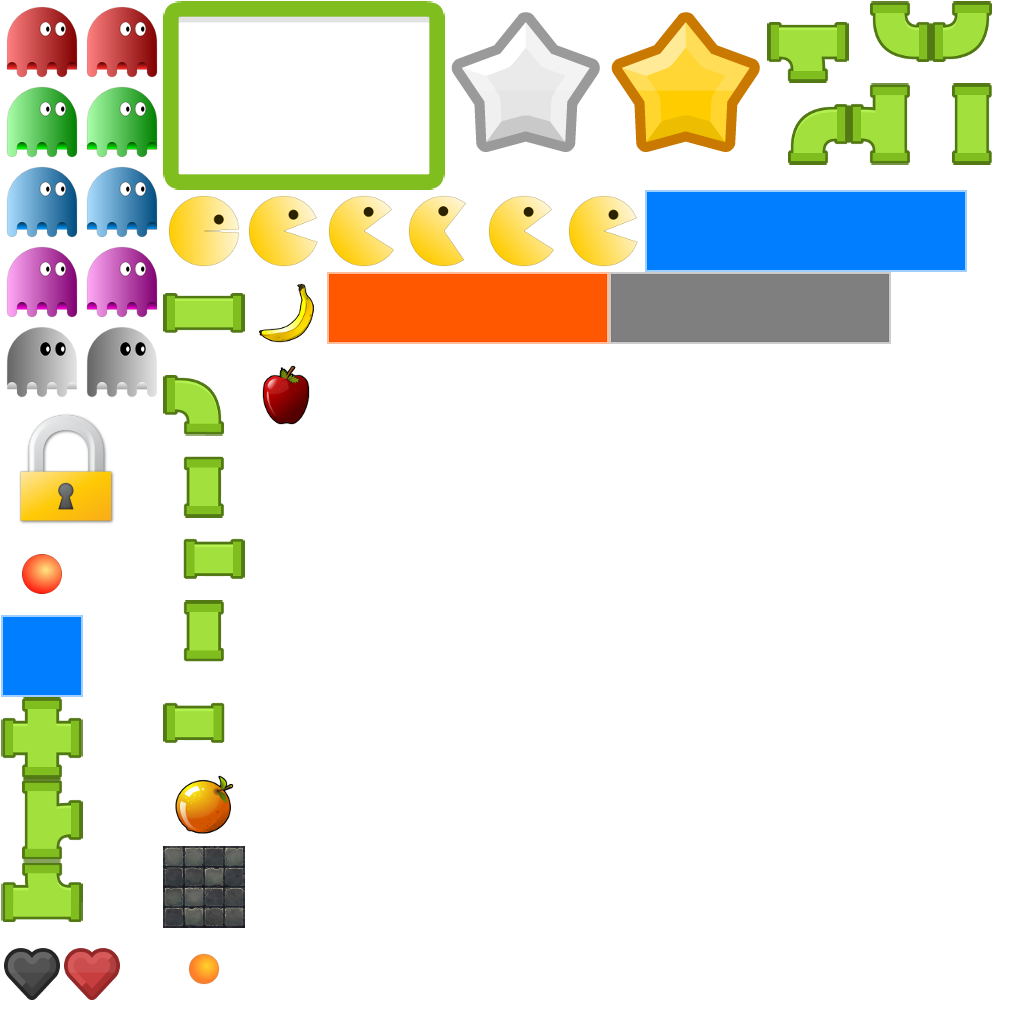
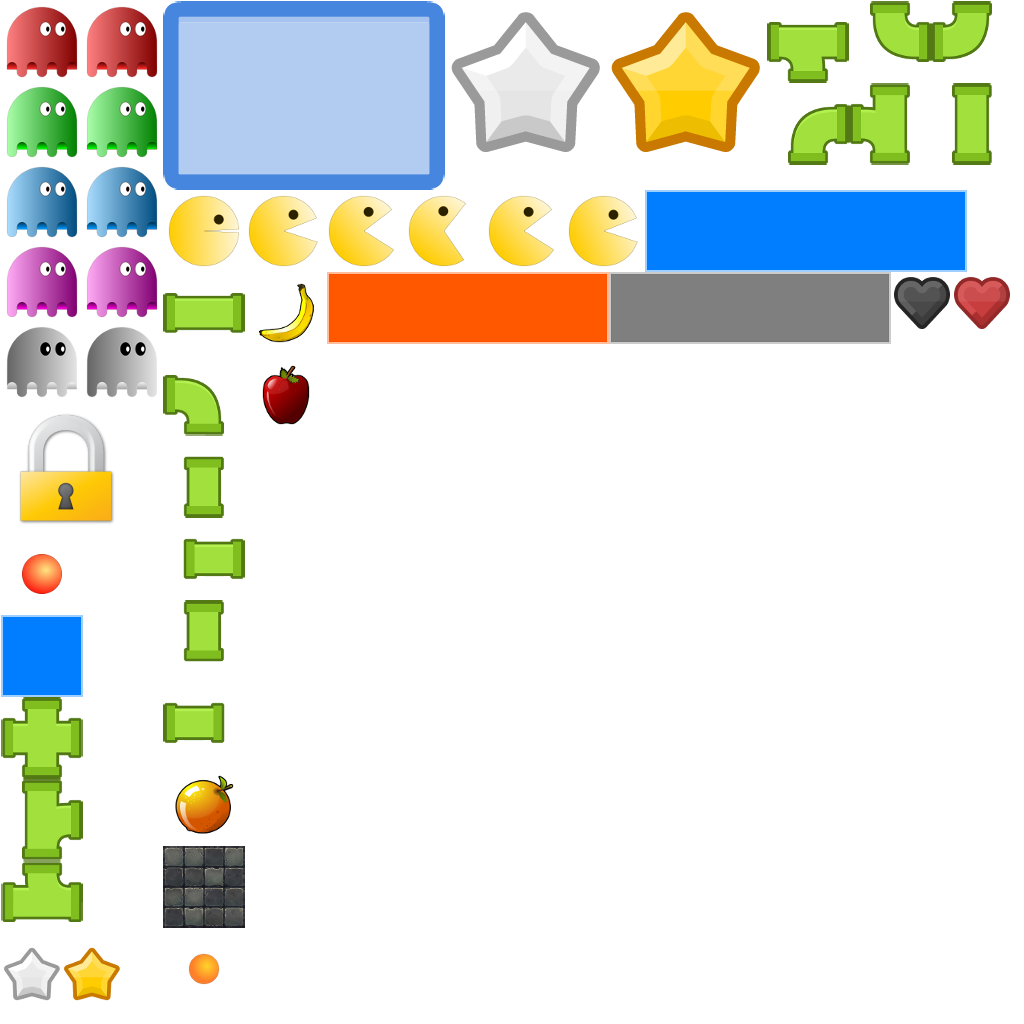
Завершение реализации меню выбора уровня

Changed region(s): [[0.1562, 0.0, 0.4375, 0.1875], [0.0, 0.9062, 0.125, 1.0], [0.875, 0.25, 1.0, 0.3438]]

diff --git a/core/src/com/mygdx/game/screens/MenuScreen.java b/core/src/com/mygdx/game/screens/MenuScreen.java
@@ -2,22 +2,15 @@ package com.mygdx.game.screens;
 
 import com.badlogic.gdx.Gdx;
 import com.badlogic.gdx.Screen;
-import com.badlogic.gdx.audio.Music;
 import com.badlogic.gdx.graphics.Camera;
 import com.badlogic.gdx.graphics.GL20;
-import com.badlogic.gdx.graphics.OrthographicCamera;
 import com.badlogic.gdx.graphics.g2d.BitmapFont;
 import com.badlogic.gdx.graphics.g2d.SpriteBatch;
 import com.badlogic.gdx.graphics.g2d.TextureRegion;
 import com.badlogic.gdx.math.Vector2;
-import com.badlogic.gdx.scenes.scene2d.Actor;
-import com.badlogic.gdx.scenes.scene2d.Stage;
-import com.badlogic.gdx.scenes.scene2d.ui.Button;
-import com.badlogic.gdx.scenes.scene2d.ui.Skin;
-import com.badlogic.gdx.scenes.scene2d.ui.TextButton;
-import com.badlogic.gdx.scenes.scene2d.utils.ChangeListener;
 import com.mygdx.game.Assets;
 import com.mygdx.game.GameConstants;
+import com.mygdx.game.HighScoreSystem;
 import com.mygdx.game.gui.MenuGUI;
 
 import java.util.HashMap;
@@ -36,6 +29,7 @@ public class MenuScreen implements Screen, GameConstants {
     private TextureRegion[] stars;
     private TextureRegion lock;
     private TextureRegion pane;
+    private int[] levelStars;
 
     private Vector2 firstCameraPosition;
     private Vector2 currentCameraPosition;
@@ -48,15 +42,16 @@ public class MenuScreen implements Screen, GameConstants {
         this.camera = camera;
         this.textures = new HashMap<>();
 
+        this.levelStars = new int[GameLevel.values().length];
         this.firstCameraPosition = new Vector2();
         this.secondCameraPosition = new Vector2();
+        this.currentCameraPosition = new Vector2();
         this.cameraSpeed = new Vector2();
-
-        this.currentCameraPosition = new Vector2(VIEWPORT_WIDTH / 2, VIEWPORT_HEIGHT / 2);
     }
 
     @Override
     public void show() {
+        this.currentCameraPosition.set(VIEWPORT_WIDTH / 2, VIEWPORT_HEIGHT / 2);
         this.moveCamera = false;
         updateCamera();
 
@@ -67,6 +62,12 @@ public class MenuScreen implements Screen, GameConstants {
 
         pane = Assets.getInstance().getAtlas().findRegion("backTile");
         lock = Assets.getInstance().getAtlas().findRegion("lock");
+        stars = Assets.getInstance().getAtlas().findRegion("smallStars").split(60, 60)[0];
+
+        for (GameLevel lvl : GameLevel.values()) {
+            HighScoreSystem.loadResult(lvl.getScoreFileName());
+            levelStars[lvl.ordinal()] = HighScoreSystem.getMaxStars();
+        }
 
         this.menuGUI = new MenuGUI(this);
     }
@@ -83,6 +84,10 @@ public class MenuScreen implements Screen, GameConstants {
         secondCameraPosition.set(VIEWPORT_WIDTH / 2, VIEWPORT_HEIGHT / 2);
         this.cameraSpeed = new Vector2(0, CAMERA_SPEED);
         moveCamera = true;
+    }
+
+    public int[] getLevelStars() {
+        return levelStars;
     }
 
     public SpriteBatch getBatch() {
@@ -114,23 +119,33 @@ public class MenuScreen implements Screen, GameConstants {
         fillBackground();
         font96.draw(batch, "Pac-Man 2018", 0, 600, VIEWPORT_WIDTH, 1, false);
         font48.draw(batch, "Arcade", 0, 480, VIEWPORT_WIDTH, 1, false);
-        renderLevelSelectButtons(batch);
+        renderLevelPanes(batch);
         batch.end();
         menuGUI.renderStage();
     }
 
-    private void renderLevelSelectButtons(SpriteBatch batch) {
+    private void renderLevelPanes(SpriteBatch batch) {
         int posX = 0;
         int posY = 0;
         final int paneWidth = 280;
         final int paneHeight = 187;
 
+        int levelNumber = 0;
+
         for (int y = 0; y < 2; y++) {
             for (int x = 0; x < 4; x++) {
                 posX = 35 + x * (paneWidth + 30);
-                posY = SECOND_SCREEN_Y0 + VIEWPORT_HEIGHT - (paneHeight + 30) - y * 260;
+                posY = SECOND_SCREEN_Y0 + VIEWPORT_HEIGHT - (paneHeight + 30) - y * 300;
                 batch.draw(pane, posX, posY, paneWidth, paneHeight, paneWidth, paneHeight,1,1,0);
-                drawLockAtPosition(posX, posY);
+
+                levelNumber = x + 1 + (4 * y);
+
+                if (levelNumber == 1 || levelStars[levelNumber - 2] > 0) {
+                    drawLevelNameAtPosition(posX, posY, levelNumber);
+                    drawStarsAtPosition(posX, posY, levelStars[levelNumber - 1]);
+                } else {
+                    drawLockAtPosition(posX, posY);
+                }
             }
         }
     }
@@ -138,6 +153,18 @@ public class MenuScreen implements Screen, GameConstants {
     private void drawLockAtPosition(int x, int y) {
         final int lockSize = 128;
         batch.draw(lock, x + 74, y + 28, lockSize, lockSize, lockSize, lockSize,1,1,0);
+    }
+
+    private void drawLevelNameAtPosition(int x, int y, int number) {
+        font48.draw(batch, GameLevel.values()[number - 1].getLevelName(), x, y + 140, 280, 1, false);
+    }
+
+    private void drawStarsAtPosition(int x, int y, int starsCount) {
+        final int starSize = 60;
+
+        for (int i = 0; i < 5; i++) {
+            batch.draw(stars[(starsCount > i?1:0)], x + 35 * i + 40, y + 25, starSize, starSize, starSize, starSize, 1, 1, 0);
+        }
     }
 
     public void update(float dt) {

diff --git a/core/src/com/mygdx/game/gui/MenuGUI.java b/core/src/com/mygdx/game/gui/MenuGUI.java
@@ -18,11 +18,22 @@ public class MenuGUI extends SimpleGUI {
     public MenuGUI(MenuScreen menuScreen) {
         super(menuScreen.getBatch());
         this.menuScreen = menuScreen;
+        setupLevelButtons();
     }
 
     @Override
     protected void setupSkin() {
         super.setupSkin();
+
+        TextButton.TextButtonStyle textButtonOrangeStyle = new TextButton.TextButtonStyle();
+        textButtonOrangeStyle.up = skin.getDrawable("simpleButtonOrange");
+        textButtonOrangeStyle.font = font32;
+        skin.add("simpleOrangeButtonSkin", textButtonOrangeStyle);
+
+        TextButton.TextButtonStyle textButtonGreyStyle = new TextButton.TextButtonStyle();
+        textButtonGreyStyle.up = skin.getDrawable("simpleButtonGrey");
+        textButtonGreyStyle.font = font32;
+        skin.add("simpleGreyButtonSkin", textButtonGreyStyle);
     }
 
     @Override
@@ -35,9 +46,36 @@ public class MenuGUI extends SimpleGUI {
         btnNewGame.setPosition(VIEWPORT_WIDTH / 2 - 160, 170);
         btnExitGame.setPosition(VIEWPORT_WIDTH / 2 - 160, 60);
         btnMenu.setPosition(VIEWPORT_WIDTH / 2 - 160, SECOND_SCREEN_Y0 + 20);
+
         stage.addActor(btnNewGame);
         stage.addActor(btnExitGame);
         stage.addActor(btnMenu);
+    }
+
+    private void setupLevelButtons() {
+        int levelNumber;
+        boolean unlocked = true;
+
+        for (int y = 0; y < 2; y++) {
+            for (int x = 0; x < 4; x++) {
+                levelNumber = x + 1 + (4 * y);
+                if (levelNumber > 1) unlocked = menuScreen.getLevelStars()[levelNumber - 2] > 0;
+                Button button = new TextButton("Play", skin, unlocked?"simpleOrangeButtonSkin":"simpleGreyButtonSkin");
+                button.setPosition(35 + x * 310, SECOND_SCREEN_Y0 + VIEWPORT_HEIGHT - 300 - y * 300);
+                stage.addActor(button);
+
+                if (unlocked) {
+                    final int lvl = levelNumber - 1;
+                    button.addListener(new ChangeListener() {
+                        @Override
+                        public void changed(ChangeEvent event, Actor actor) {
+                            ScreenManager.getInstance().setGameLevel(GameLevel.values()[lvl]);
+                            ScreenManager.getInstance().changeScreen(ScreenManager.ScreenType.GAME);
+                        }
+                    });
+                }
+            }
+        }
     }
 
     @Override
@@ -46,8 +84,6 @@ public class MenuGUI extends SimpleGUI {
             @Override
             public void changed(ChangeEvent event, Actor actor) {
                 menuScreen.moveCameraDown();
-//                ScreenManager.getInstance().setGameLevel(GameLevel.LEVEL1);
-//                ScreenManager.getInstance().changeScreen(ScreenManager.ScreenType.GAME);
             }
         });
 

diff --git a/core/src/com/mygdx/game/GameConstants.java b/core/src/com/mygdx/game/GameConstants.java
@@ -14,21 +14,23 @@ public interface GameConstants {
     enum Action { WAITING, MOVING, DIEING, RECOVERING }
 
     enum GameLevel {
-        LEVEL1("level1.map", "level1.dat"),
-        LEVEL2("level2.map", "level2.dat"),
-        LEVEL3("level3.map", "level3.dat"),
-        LEVEL4("level4.map", "level4.dat"),
-        LEVEL5("level5.map", "level5.dat"),
-        LEVEL6("level6.map", "level6.dat"),
-        LEVEL7("level7.map", "level7.dat"),
-        LEVEL8("level8.map", "level8.dat");
+        LEVEL1("level1.map", "level1.dat", "Level 1"),
+        LEVEL2("level2.map", "level2.dat", "Level 2"),
+        LEVEL3("level3.map", "level3.dat", "Level 3"),
+        LEVEL4("level4.map", "level4.dat", "Level 4"),
+        LEVEL5("level5.map", "level5.dat", "Level 5"),
+        LEVEL6("level6.map", "level6.dat", "Level 6"),
+        LEVEL7("level7.map", "level7.dat", "Level 7"),
+        LEVEL8("level8.map", "level8.dat", "Level 8");
 
         private final String mapFileName;
         private final String scoreFileName;
+        private final String levelName;
 
-        GameLevel(String mapFileName, String scoreFileName) {
+        GameLevel(String mapFileName, String scoreFileName, String levelName) {
             this.mapFileName = mapFileName;
             this.scoreFileName = scoreFileName;
+            this.levelName = levelName;
         }
 
         public String getMapFileName() {
@@ -37,6 +39,10 @@ public interface GameConstants {
 
         public String getScoreFileName() {
             return scoreFileName;
+        }
+
+        public String getLevelName() {
+            return levelName;
         }
 
         public GameLevel getNext() {
